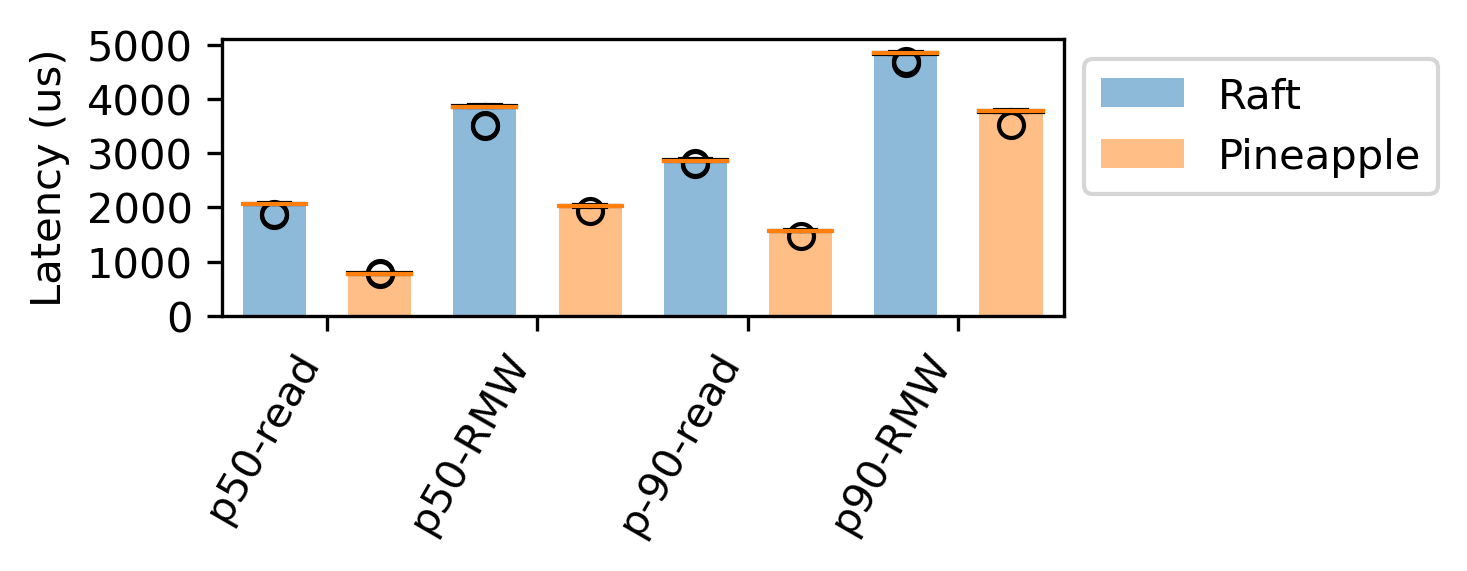
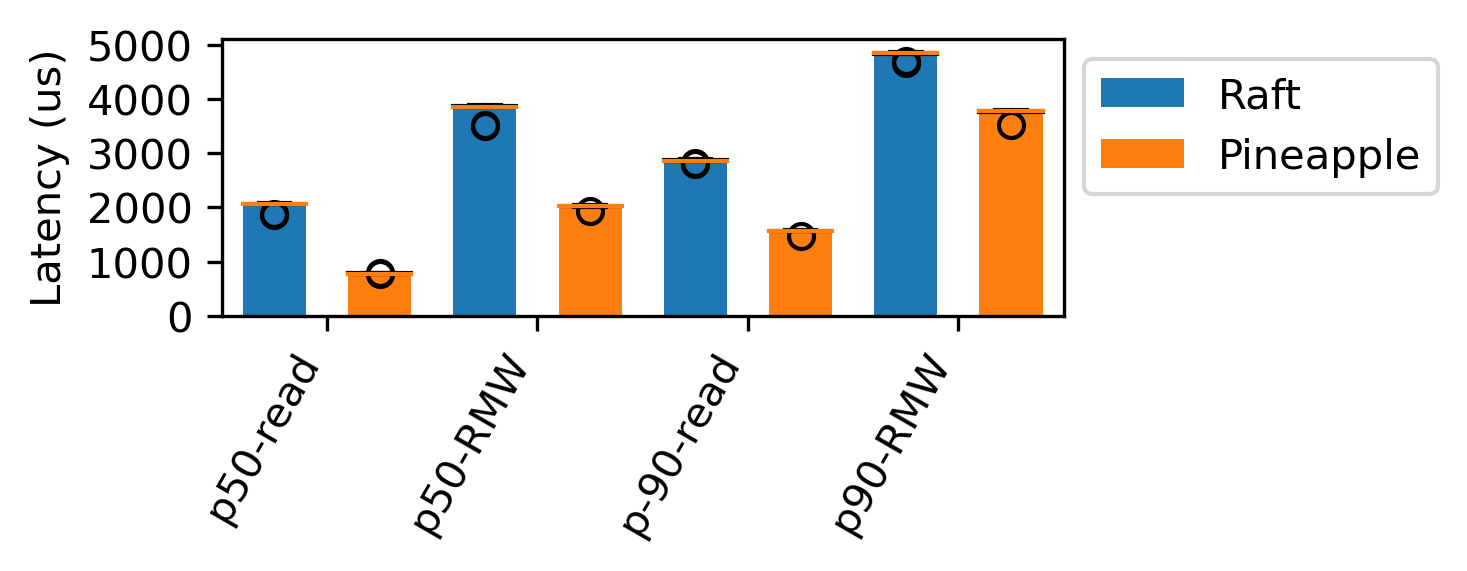
update

Changed region(s): [[0.1534, 0.0893, 0.8282, 0.5657], [0.7362, 0.1191, 0.8282, 0.2084]]

diff --git a/plot.py b/plot.py
@@ -47,8 +47,8 @@ fig, ax = plt.subplots(figsize=(5, 2))
 positions = np.arange(len(columns))
 
 # Create bar charts representing the median values for each dataset.
-ax.bar(positions * 2, raft_medians, width=0.6, alpha=0.5, label='Raft')
-ax.bar(positions * 2 + 1, pineapple_medians, width=0.6, alpha=0.5, label='Pineapple')
+ax.bar(positions * 2, raft_medians, width=0.6, alpha=1, label='Raft')
+ax.bar(positions * 2 + 1, pineapple_medians, width=0.6, alpha=1, label='Pineapple')
 
 # Create box plots for each dataset.
 raftBox = ax.boxplot(raft_values, positions=positions * 2, widths=0.6, patch_artist=True, boxprops=dict(facecolor="blue"))
